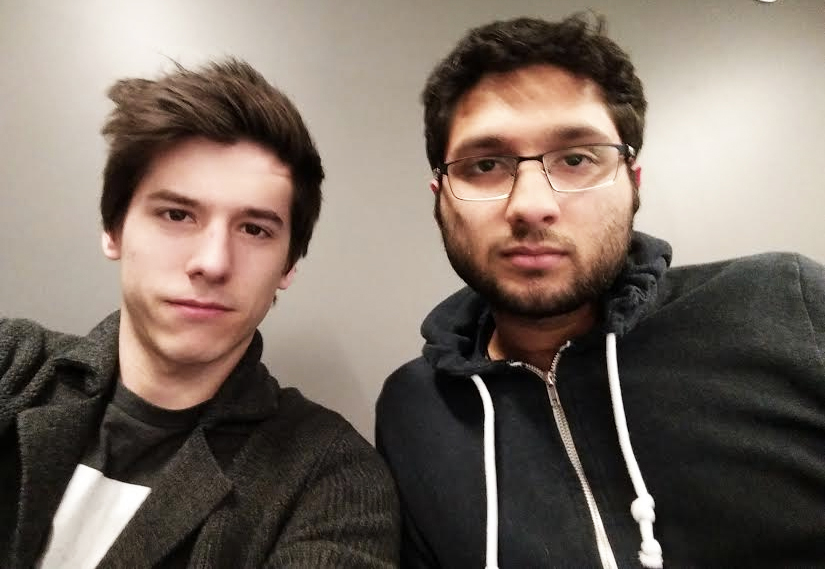
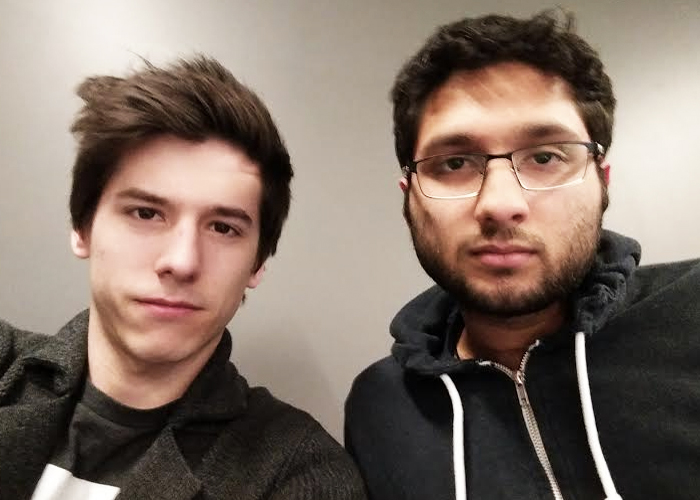
turned into two images

diff --git a/scripta.m b/scripta.m
@@ -1,0 +1,57 @@
+%%Principal Component Analysis with Image Compression
+clear all;clc; 
+%Take in any image
+fullImage = imread('312.jpg'); 
+
+%Convert the image to Grayscale. If the image is not grayscale, we will 
+%have a 3 dimensional matrix. For the purposes of this assignment, we will 
+%only be looking at a 2 dimensional matrix.
+greyImage = rgb2gray(fullImage);  
+
+%Convert image data to double for processing (currently an unsigned int)
+image = im2double(greyImage);     
+
+%Show original figure for comparison
+figure(1)
+    imshow(image)
+    axis off
+
+%Find the emperical mean along each dimension. Put in 1 dimensional matrix
+columnMean = mean(image);   
+
+%Find the dimensions (actually the image resolution) of the image
+[m,n] = size(greyImage); 
+
+%Create a matrix of the means, where each row is the computed means
+%(above), and the number of rows is the number of rows in our image
+means = repmat(columnMean,m,1); 
+
+%Subtract the means from every row to find the deviations from the mean.
+meanDeviations = image - means; 
+
+%Generate a covariance matrix from the deviations from the mean
+covariance = cov(meanDeviations);   
+
+%Find the eigenvalues (D) and eigenvectors (V) of the covariance matrix
+%*Eigenvalues are in ASCENDING order! This is important in the next steps*
+[V,D] = eig(covariance); 
+
+%Pick a number of components, subtract it from the number of columns.
+components = n - 2;                                                     
+principalVectors = V;
+
+%Clear from left to right (ascending) the vectors we do not want.
+for i = 1:components,                                                         
+principalVectors(:,1) =[]; 
+end 
+
+%%Image Processing!
+
+%Now multiply the principle vectors by the means of each row!
+compressedImage=principalVectors*(principalVectors' * meanDeviations.');
+
+%Then, add the means!
+compressedImage=compressedImage'+means;
+    figure(2)     
+    imshow(compressedImage)
+    axis off
